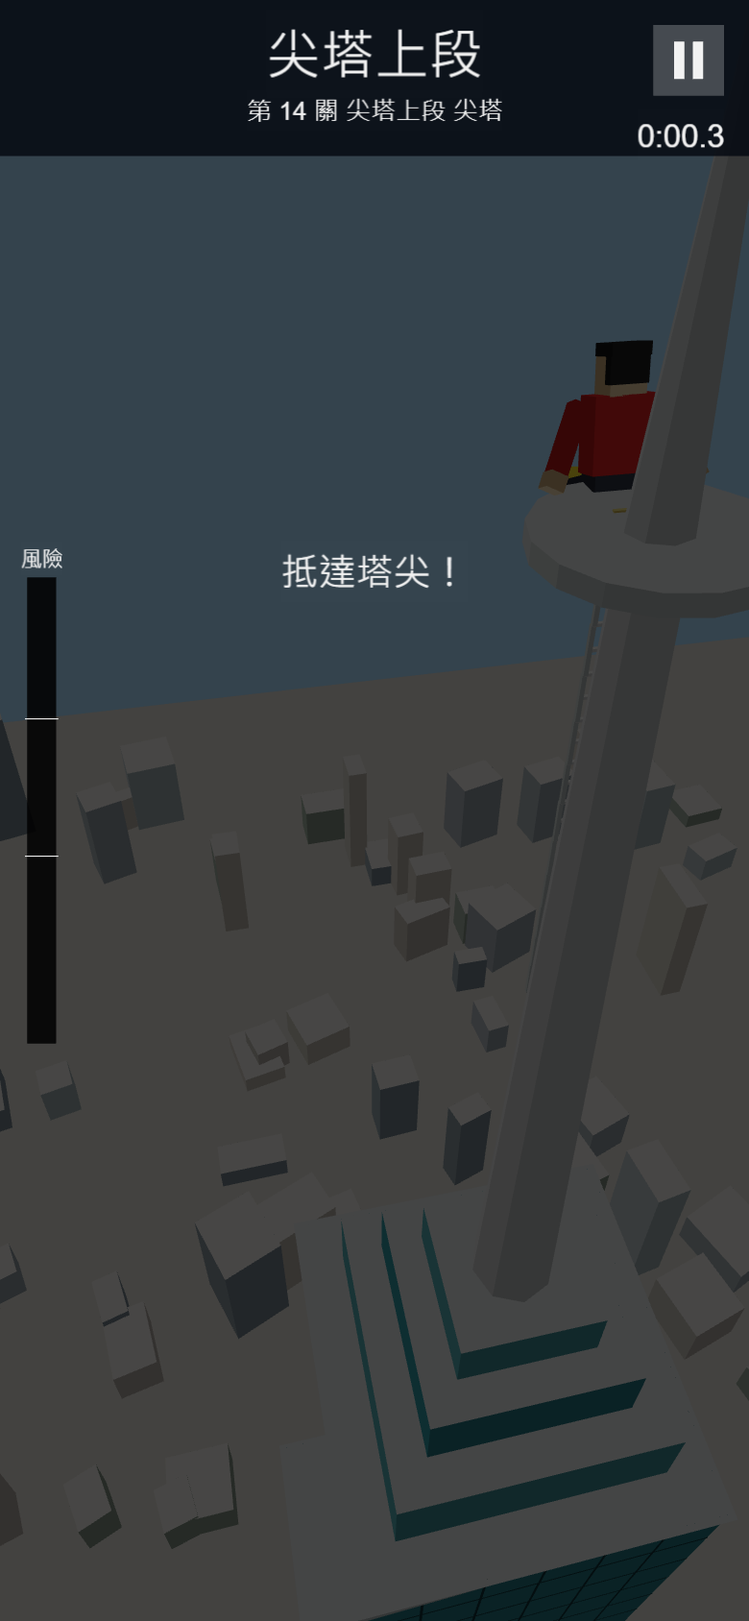
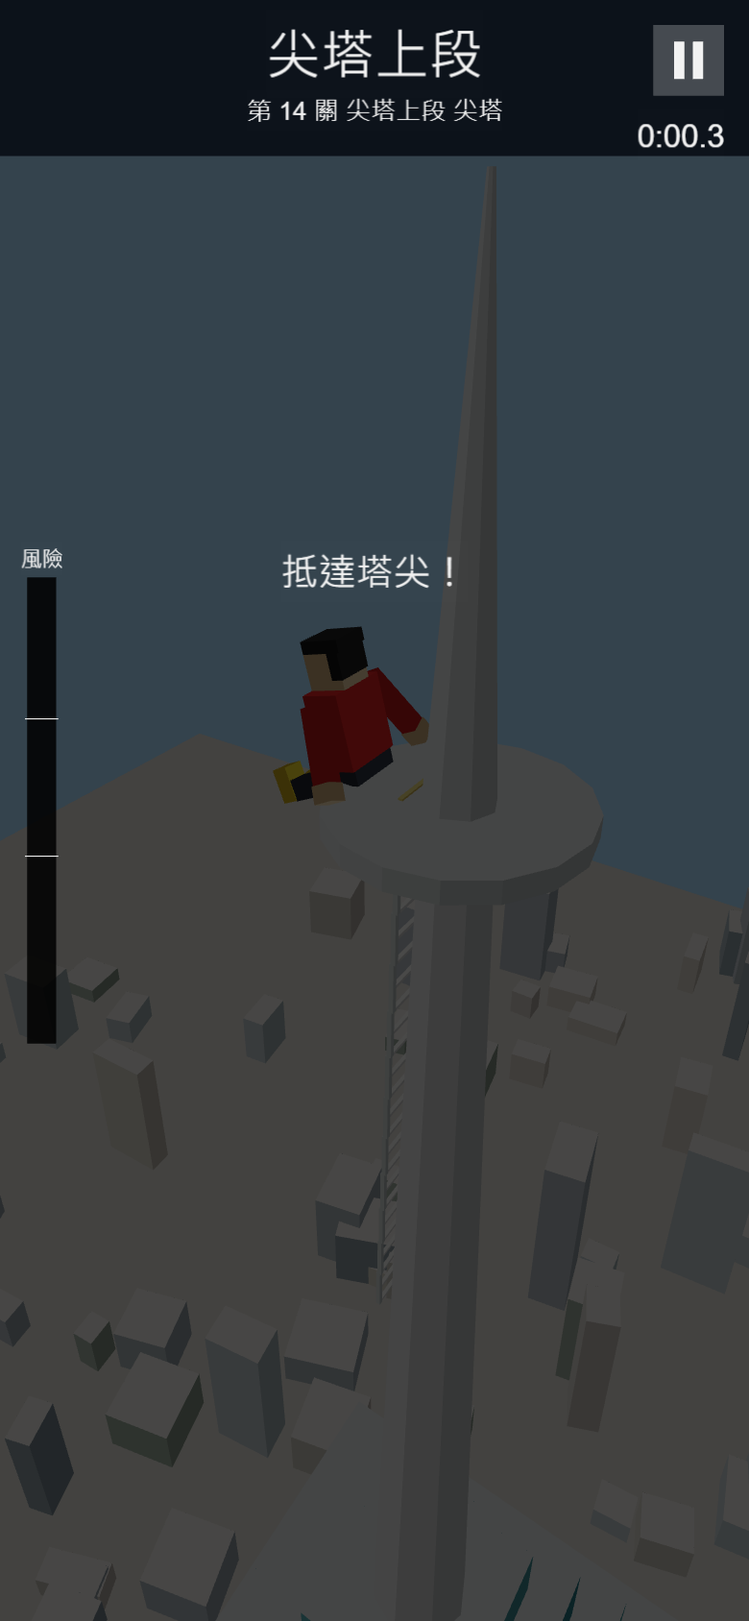
build: rebuild site after ending camera orbit fix

diff --git a/site/assets/main/index.4ecb4.js b/site/assets/main/index.4ecb4.js
@@ -34,7 +34,7 @@ System.register("chunks:///_virtual/SettingsPanel.ts",["./rollupPluginModLoBabel
 
 System.register("chunks:///_virtual/Toast.ts",["cc","./UiKit.ts"],(function(t){var i,o,e,a,n,s,c,h,d,p,r;return{setters:[function(t){i=t.cclegacy,o=t.UITransform,e=t.Tween,a=t.tween,n=t.Graphics,s=t.Color,c=t.UIOpacity},function(t){h=t.roundRect,d=t.hex,p=t.makeNode,r=t.makeLabel}],execute:function(){i._RF.push({},"c007dJKzeZA6KMdTTa1W2Pz","Toast",void 0);t("Toast",function(){function t(t,i){void 0===i&&(i=-470),this.node=void 0,this.bg=void 0,this.label=void 0,this.opacity=void 0,this.node=p("Toast",t,0,0,0,i),this.bg=this.node.addComponent(n),this.label=r(this.node,"",30,s.WHITE,{bold:!0}),this.opacity=this.node.addComponent(c),this.opacity.opacity=0}var i=t.prototype;return i.show=function(t,i){void 0===i&&(i=1.6),this.node.setSiblingIndex(this.node.parent.children.length-1),this.label.string=t,this.label.updateRenderData(!0);var n=Math.max(220,this.label.node.getComponent(o).width+64);this.bg.clear(),h(this.bg,n,72,36,d("#0b1024",230),d("#ffc94a",230),2),e.stopAllByTarget(this.opacity),this.opacity.opacity=255,a(this.opacity).delay(i).to(.3,{opacity:0}).start()},i.hide=function(){e.stopAllByTarget(this.opacity),this.opacity.opacity=0},t}());i._RF.pop()}}}));
 
-System.register("chunks:///_virtual/Tower3D.ts",["./rollupPluginModLoBabelHelpers.js","cc","./ClimbCore.ts","./TowerShape.ts"],(function(t){var s,i,a,r,e,o,n,h,l,d,c,u,f,v,m,w,b,p,y,M,g,Y,P,x,E,F,R,C,I,T,O;return{setters:[function(t){s=t.createForOfIteratorHelperLoose,i=t.createClass,a=t.asyncToGenerator,r=t.regeneratorRuntime},function(t){e=t.cclegacy,o=t.Color,n=t.Vec3,h=t.Node,l=t.Layers,d=t.MeshRenderer,c=t.director,u=t.Camera,f=t.resources,v=t.Material,m=t.utils},function(t){w=t.zoneOf,b=t.isObstacle},function(t){p=t.halfAt,y=t.surfacePoint,M=t.CROWN,g=t.summitY,Y=t.SPIRE_HALF,P=t.SPIRE_TIP,x=t.levelBaseY,E=t.ROW_H,F=t.profileHalf,R=t.ringDelta,C=t.angleDelta,I=t.towerSections,T=t.roofY,O=t.rowY}],execute:function(){e._RF.push({},"99b4ejPWJhEJavssHONEiN2","Tower3D",void 0);var L=z("#9cc8e6"),k=1.5,S=t("ENDING_SEC",10),D=.04,A={glass:z("#3f8f98"),glassDark:z("#2b6f78"),mullion:z("#1f4f57"),ledge:z("#cfd8d6"),disc:z("#b9c6c4"),discInner:z("#7d8f8d"),ruyi:z("#f2f2ee"),crown:z("#5aa0a8"),spire:z("#d8dcdc"),plaza:z("#b8b2a6"),mat:z("#24474a"),safe:z("#6fd0e0"),danger:z("#e0605a"),obstacle:z("#5a5a5a"),obstacleTop:z("#8a8a8a"),slab:z("#173a40"),goal:z("#e8c66a"),body:z("#d62c2c"),skin:z("#f0c090"),hair:z("#2a2a2a"),pants:z("#3a3f4a"),shoe:z("#f2c230")};function z(t){return(new o).fromHEX(t)}var H=new n(.45,.75,.5).normalize();function q(t,s,i,a){var r=Math.hypot(s,i,a)||1,e=(s*H.x+i*H.y+a*H.z)/r,o=.62+.38*Math.max(0,e);return[t.r/255*o,t.g/255*o,t.b/255*o,1]}var N=function(){function t(){this.positions=[],this.colors=[],this.indices=[],this.min=[1/0,1/0,1/0],this.max=[-1/0,-1/0,-1/0]}var s=t.prototype;return s.vert=function(t,s){this.positions.push(t[0],t[1],t[2]),this.colors.push(s[0],s[1],s[2],s[3]);for(var i=0;i<3;i++)t[i]<this.min[i]&&(this.min[i]=t[i]),t[i]>this.max[i]&&(this.max[i]=t[i]);return this.vertexCount-1},s.quad=function(t,s,i,a,r,e){void 0===e&&(e=!1);var o=s[0]-t[0],n=s[1]-t[1],h=s[2]-t[2],l=a[0]-t[0],d=a[1]-t[1],c=a[2]-t[2],u=e?[r.r/255,r.g/255,r.b/255,1]:q(r,n*c-h*d,h*l-o*c,o*d-n*l),f=this.vert(t,u);this.vert(s,u),this.vert(i,u),this.vert(a,u),this.indices.push(f,f+1,f+2,f,f+2,f+3)},s.box=function(t,s,i,a,r,e,o,n,h){void 0===n&&(n=0);var l=a/2,d=r/2,c=e/2,u=Math.cos(n),f=Math.sin(n),v=function(a,r,e){return[t+a*u+e*f,s+r,i-a*f+e*u]},m=[v(-l,-d,-c),v(l,-d,-c),v(l,d,-c),v(-l,d,-c),v(-l,-d,c),v(l,-d,c),v(l,d,c),v(-l,d,c)];this.quad(m[4],m[5],m[6],m[7],o),this.quad(m[1],m[0],m[3],m[2],o),this.quad(m[5],m[1],m[2],m[6],o),this.quad(m[0],m[4],m[7],m[3],o),this.quad(m[7],m[6],m[2],m[3],null!=h?h:o),this.quad(m[0],m[1],m[5],m[4],o)},s.prism=function(t,s,i,a,r,e,o,n){void 0===o&&(o=0),void 0===n&&(n=0);for(var h=0;h<t;h++){var l=h/t*Math.PI*2,d=(h+1)/t*Math.PI*2;this.quad([o+Math.sin(l)*a,s,n+Math.cos(l)*a],[o+Math.sin(d)*a,s,n+Math.cos(d)*a],[o+Math.sin(d)*r,i,n+Math.cos(d)*r],[o+Math.sin(l)*r,i,n+Math.cos(l)*r],e)}for(var c=q(e,0,1,0),u=this.vert([o,i,n],c),f=0;f<=t;f++){var v=f/t*Math.PI*2;this.vert([o+Math.sin(v)*r,i,n+Math.cos(v)*r],c)}for(var m=0;m<t;m++)this.indices.push(u,u+1+m,u+2+m)},s.build=function(){var t,s,i={positions:this.positions,colors:this.colors,indices:this.indices,minPos:new n(this.min[0],this.min[1],this.min[2]),maxPos:new n(this.max[0],this.max[1],this.max[2])},a=m,r=null!=(t=null==(s=a.MeshUtils)?void 0:s.createMesh)?t:a.createMesh;if(!r)throw new Error("createMesh is not available (is the 3D module enabled?)");return r(i)},i(t,[{key:"vertexCount",get:function(){return this.positions.length/3}}]),t}();function _(t,s,i,a,r,e,o,n,h,l,d){void 0===d&&(d=!1);var c=p(s,o+1e-4),u=p(s,n-1e-4),f=y(r,c,i,a,h),v=y(e,c,i,a,h),m=y(e,u,i,a,h),w=y(r,u,i,a,h);t.quad([f.x,o,f.z],[v.x,o,v.z],[m.x,n,m.z],[w.x,n,w.z],l,d)}t("Tower3D",function(){function t(t,s){this.root=void 0,this.camera=void 0,this.userYaw=0,this.rowsPerFloor=void 0,this.ladderRows=void 0,this.sections=void 0,this.material=null,this.gridNode=null,this.gridMesh=null,this.player=void 0,this.body=void 0,this.limbs=[],this.followYaw=0,this.camYaw=0,this.playerYaw=0,this.camY=0,this.camHalf=8,this.idleOrbitSec=0,this.baseY=0,this.standY=0,this.standOut=1,this.feetY=0,this.lastWalk=0,this.tmp=new n,this.tmp2=new n,this.rowsPerFloor=t,this.ladderRows=s,this.sections=I(t);var i=c.getScene();this.root=new h("Tower3D"),this.root.layer=l.Enum.DEFAULT,i.addChild(this.root);var a=new h("Camera3D");a.layer=l.Enum.DEFAULT,i.addChild(a);var r=a.addComponent(u);r.projection=u.ProjectionType.PERSPECTIVE,r.fovAxis=u.FOVAxis.HORIZONTAL,r.fov=42,r.near=.3,r.far=1500,r.priority=0,r.clearFlags=u.ClearFlag.SOLID_COLOR,r.clearColor=L,r.visibility=l.Enum.DEFAULT,this.camera=r}var e=t.prototype;return e.init=function(){var t=a(r().mark((function t(){return r().wrap((function(t){for(;;)switch(t.prev=t.next){case 0:return t.next=2,new Promise((function(t,s){f.load("materials/vertex-color",v,(function(i,a){if(!i&&a)t(a);else try{var r=new v;r.initialize({effectName:"builtin-unlit",defines:{USE_VERTEX_COLOR:!0}}),t(r)}catch(t){s(null!=i?i:t)}}))}));case 2:this.material=t.sent,this.addMesh("Scenery",this.buildScenery()),this.buildPlayer();case 5:case"end":return t.stop()}}),t,this)})));return function(){return t.apply(this,arguments)}}(),e.destroy=function(){var t;null==(t=this.gridMesh)||t.destroy(),this.root.destroy(),this.camera.node.destroy()},e.addMesh=function(t,s,i){void 0===i&&(i=this.root);var a=new h(t);a.layer=l.Enum.DEFAULT,i.addChild(a);var r=s.build(),e=a.addComponent(d);return e.mesh=r,e.setSharedMaterial(this.material,0),e.shadowCastingMode=d.ShadowCastingMode.OFF,{node:a,mesh:r}},e.buildScenery=function(){var t=new N,s=this.sections,i=this.rowsPerFloor;t.quad([-400,0,400],[400,0,400],[400,0,-400],[-400,0,-400],A.plaza,!0);var a=s[0].half0+3;t.quad([-a,.02,a],[a,.02,a],[a,.02,-a],[-a,.02,-a],A.mat,!0);for(var r=0;r<s.length;r++){for(var e=s[r],o=0;o<4;o++)_(t,s,1,4,o,o+1,e.y0,e.y1,0,r%2?A.glass:A.glassDark);for(var n=e.floorFrom+1;n<=e.floorTo;n++)for(var h=O((n-1)*i),l=0;l<4;l++)_(t,s,1,4,l,l+1,h-.06,h+.06,.015,A.mullion);for(var d=0;d<4;d++)for(var c=1;c<6;c++){var u=d+c/6;_(t,s,1,4,u-.004,u+.004,e.y0,e.y1,.015,A.mullion)}var f=s[r+1],v=f?f.half0:0;this.ring(t,e.y1,e.half1+.15,v,A.ledge);for(var m=0;m<4;m++)_(t,s,1,4,m,m+1,e.y1-.35,e.y1,.15,A.ledge);if("segment"===e.kind)for(var w=e.y0+.35*(e.y1-e.y0),b=p(s,w),x=0;x<4;x++){var E=y(x,b,1,4,.25);t.box(E.x,w,E.z,.9,.35,.9,A.ruyi,Math.PI/4),t.box(E.x,w-.55,E.z,.3,.8,.3,A.ruyi,Math.PI/4)}}for(var F=s[0].y1-2.4,R=p(s,F),C=0;C<4;C++){var I=C*Math.PI/2;this.disc(t,R+.08,F,I,1.9,A.disc),this.disc(t,R+.14,F,I,1.2,A.discInner)}var L=T(i),k=[A.crown,A.glass,A.crown];M.forEach((function(s,i){var a=s[0],r=s[1];t.box(0,L+a/2,0,2*r,a,2*r,k[i%k.length],0,A.ledge),L+=a}));var S=g(i,this.ladderRows);t.prism(8,L,S,Y[0],Y[1],A.spire),t.prism(16,S-.3,S,1.6,1.6,A.ledge),t.prism(8,S,S+P,Y[1],.04,A.spire);for(var D=101,H=function(){return(D=16807*D%2147483647)/2147483647},q=[z("#c9c3b8"),z("#a9b3b8"),z("#d8cfc0"),z("#8f9ca3"),z("#b7c4c9"),z("#9aa89a")],U=0;U<260;U++){var W=H()*Math.PI*2,V=60+300*Math.pow(H(),.7),j=V<100,B=6+14*H(),G=6+14*H(),J=j?4+18*H():6+H()*H()*60;t.box(Math.sin(W)*V,J/2,Math.cos(W)*V,B,J,G,q[U%q.length],.4*H(),z("#e4e0d8"))}return t},e.ring=function(t,s,i,a,r){for(var e=function(t){return[[t,s,t],[t,s,-t],[-t,s,-t],[-t,s,t]]},o=e(i),n=e(a),h=0;h<4;h++){var l=(h+1)%4;t.quad(o[h],o[l],n[l],n[h],r)}},e.disc=function(t,s,i,a,r,e){for(var o=Math.sin(a),n=Math.cos(a),h=Math.cos(a),l=-Math.sin(a),d=0;d<16;d++){var c=d/16*Math.PI*2,u=(d+1)/16*Math.PI*2,f=function(t){return[o*s+h*Math.cos(t)*r,i+Math.sin(t)*r,n*s+l*Math.cos(t)*r]},v=[o*s,i,n*s];t.quad(v,f(c),f(u),v,e)}},e.setLevel=function(t){var i,a,r=this;null==(i=this.gridNode)||i.destroy(),null==(a=this.gridMesh)||a.destroy();var e=t.wall,o=t.level,n=this.sections;this.baseY=x(o,this.rowsPerFloor,this.ladderRows);var h=function(t){return r.baseY+t*E};1===o.floorFrom?(this.standY=0,this.standOut=1.2):(this.standY=this.baseY,this.standOut=Math.max(.5,.55*(this.half(this.baseY-.05)-this.half(this.baseY+.05))));var l=new N;if(1===e.cols){this.buildLadder(l,e.rows);var d=this.addMesh("Grid",l),c=d.node,u=d.mesh;return this.gridNode=c,void(this.gridMesh=u)}for(var f=0;f<e.ring;f++)for(var v=0,m=1;m<=e.rows;m++){var M=w(e,f,m-1);if(m===e.rows||b(e,f,m)||b(e,f,m-1)||w(e,f,m)!==M){if(!b(e,f,m-1)){var g="safe"===M?A.safe:A.danger;_(l,n,e.cols,e.faces,f+.08,f+1-.08,h(v),h(m),D,g,!0)}v=m}}for(var Y=this.rowsPerFloor/2;Y<e.rows;Y+=this.rowsPerFloor){var P=h(Y);_(l,n,e.cols,e.faces,0,e.ring,P-.025,P+.025,.05,A.mullion,!0)}for(var F=this.rowsPerFloor;F<=e.rows;F+=this.rowsPerFloor){var R=h(F),C=F===e.rows;_(l,n,e.cols,e.faces,0,e.ring,R-(C?.1:.05),R+(C?.1:.05),.05,C?A.goal:A.slab,!0)}for(var I,T=s(e.obstacles);!(I=T()).done;){var O=I.value,L=O%e.ring,k=h(Math.floor(O/e.ring))+E/2,S=y(L+.5,p(n,k),e.cols,e.faces,.2),z=2*p(n,k)/e.cols;l.box(S.x,k,S.z,.92*z,1.6*E,.45,A.obstacle,S.yaw,A.obstacleTop)}var H=this.addMesh("Grid",l),q=H.node,U=H.mesh;this.gridNode=q,this.gridMesh=U},e.buildLadder=function(t,s){for(var i=this.baseY,a=0;a<s;a+=4)for(var r=i+(a+2)*E,e=this.half(r)+.12,o=0,n=[-.34,.34];o<n.length;o++){var h=n[o];t.box(h,r,e,.07,4*E,.07,A.ledge)}for(var l=0;l<=s;l+=2){var d=i+l*E;t.box(0,d,this.half(d)+.12,.7,.05,.06,l===s?A.goal:A.ruyi)}},e.half=function(t){return F(this.sections,this.rowsPerFloor,this.ladderRows,t)},e.buildPlayer=function(){var t=this;this.player=new h("Climber"),this.player.layer=l.Enum.DEFAULT,this.root.addChild(this.player),this.player.setScale(k,k,k),this.body=new h("Body"),this.body.layer=l.Enum.DEFAULT,this.player.addChild(this.body);var s=new N;s.box(0,.95,0,.56,.62,.32,A.body),s.box(0,.58,0,.5,.14,.3,A.pants),s.box(0,1.42,0,.32,.34,.32,A.skin),s.box(0,1.6,.02,.34,.1,.34,A.hair),s.box(0,1.47,.12,.34,.26,.1,A.hair),this.addMesh("Torso",s,this.body);var i=function(s,i,a,r,e,o,n,d,c){var u=new h(s);u.layer=l.Enum.DEFAULT,t.body.addChild(u),u.setPosition(i,a,0);var f=new N,v=c?1:-1;f.box(0,v*r/2,0,e,r,e,o),f.box(0,v*(r+.06),c?0:-.06,1.1*e,.14,c?1.1*e:1.6*e,n),t.addMesh("Mesh",f,u),t.limbs.push({node:u,sign:d,arm:c})};i("ArmL",-.36,1.2,.6,.15,A.body,A.skin,1,!0),i("ArmR",.36,1.2,.6,.15,A.body,A.skin,-1,!0),i("LegL",-.15,.55,.55,.18,A.pants,A.shoe,-1,!1),i("LegR",.15,.55,.55,.18,A.pants,A.shoe,1,!1)},e.climberPos=function(t,s){var i=t.wall,a=t.stepT<0?1:t.stepT*t.stepT*(3-2*t.stepT),r=R(t.fromCol,t.col,i.ring,i.faces),e=t.fromCol+r*a+.5,o=t.fromRow+(t.row-t.fromRow)*a,n=0;t.level.startPlatform&&null===s&&(0===t.row&&0===t.fromRow?n=1:t.stepping&&0===t.fromRow&&1===t.row?n=1-a:t.stepping&&1===t.fromRow&&0===t.row&&(n=a));var h=this.baseY+o*E;return{s:e,y:null!=s?s:h+(this.standY-h)*n,out:.55+(this.standOut-.55)*n,stand:n}},e.fallStartY=function(t){return this.climberPos(t,null).y},e.floorY=function(){return this.standY},e.rowAtFeet=function(t){return Math.floor((t-this.baseY)/E)},e.update=function(t,i,a){var r=i.wall,e=this.climberPos(i,a.fallY),o=e.s,n=e.y;this.feetY=n;var h=this.half(n+1.2),l=e.out+1.2*a.tumble,d=y(o,h,r.cols,r.faces,l);this.player.setPosition(d.x,n,d.z),this.playerYaw=d.yaw;var c=i.stepT>=0?Math.sin(i.stepT*Math.PI):0,u=e.stand>.5,f=u&&i.stepping&&i.fromRow===i.row;f&&(this.lastWalk=Math.sign(R(i.fromCol,i.col,r.ring,r.faces)));var v=d.yaw;if(u&&(v+=f?-this.lastWalk*Math.PI/2:Math.PI),this.player.setRotationFromEuler(0,180*v/Math.PI,0),u){this.body.setRotationFromEuler(0,0,0);for(var m,w=s(this.limbs);!(m=w()).done;){var b=m.value,p=f?b.sign*c*35:0;b.arm?b.node.setRotationFromEuler(180-p,0,8*-b.sign):b.node.setRotationFromEuler(p,0,0)}}else{var M=a.grip?12:4;this.body.setRotationFromEuler(-M+150*a.tumble,0,40*a.tumble);for(var g,Y=s(this.limbs);!(g=Y()).done;){var P=g.value,x=P.sign*c*30;P.arm?P.node.setRotationFromEuler(x+(a.grip?-6:6),0,-P.sign*(a.grip?10:22)):P.node.setRotationFromEuler(x-10,0,6*P.sign)}}this.followYaw+=C(this.followYaw,d.yaw)*(1-Math.exp(5*-t)),0!==a.orbitInput?(this.userYaw+=a.orbitInput,this.idleOrbitSec=0):(this.idleOrbitSec+=t,this.idleOrbitSec>1.5&&(this.userYaw=C(0,this.userYaw)*Math.exp(3*-t))),this.camYaw=this.followYaw+this.userYaw;var E=n+5+a.lift;this.camY+=(E-this.camY)*(1-Math.exp(6*-t)),this.camHalf+=(h-this.camHalf)*(1-Math.exp(3*-t));var F=2.6*this.camHalf+13,I=this.camY+1.2+a.shake;this.camera.node.setPosition(Math.sin(this.camYaw)*F,I,Math.cos(this.camYaw)*F),this.camera.node.lookAt(this.tmp.set(0,this.camY,0))},e.snap=function(t){var s=this.climberPos(t,null),i=s.s,a=s.y,r=y(i,this.half(a+1.2),t.wall.cols,t.wall.faces);this.followYaw=r.yaw,this.userYaw=0,this.camY=a+5,this.camHalf=this.half(a+1.2)},e.updateEnding=function(t){var i=g(this.rowsPerFloor,this.ladderRows),a=1.15;this.player.setPosition(0,i-.55*k+.05,a),this.player.setRotationFromEuler(0,180,0),this.feetY=i,this.playerYaw=0;var r=2*Math.sin(2*t);this.body.setRotationFromEuler(-14+r,0,0);for(var e,o=s(this.limbs);!(e=o()).done;){var n=e.value;n.arm?n.node.setRotationFromEuler(165,0,25*-n.sign):n.node.setRotationFromEuler(70+8*Math.sin(1.5*t+n.sign),0,6*n.sign)}var h,l,d=this.tmp2.set(0,i,a),c=2.3,u=i+4,f=-.5,v=-.3,m=i-30,w=26.15,b=(h=(t-3.5)/(S-3.5),(l=Math.min(1,Math.max(0,h)))*l*(3-2*l)),p=Math.atan2(c,f),y=Math.hypot(c,f),M=p+b*Math.PI*1.2,Y=y+(32-y)*b;this.camera.node.setPosition(Math.sin(M)*Y,u+9*b,Math.cos(M)*Y),this.camera.node.lookAt(this.tmp.set(v+(d.x-v)*b,m+(d.y+1.2-m)*b,w+(d.z-w)*b)),this.camYaw=M},e.headWorld=function(t){return this.player.getWorldPosition(t),t.y+=3,t},t.keyOrbit=function(t,s){return s*(100*Math.PI/180)*t},t.dragOrbit=function(t){return.008*-t},i(t,[{key:"totalHeight",get:function(){return g(this.rowsPerFloor,this.ladderRows)+P}},{key:"climberY",get:function(){return this.feetY}},{key:"levelBottomY",get:function(){return this.baseY}},{key:"climberInView",get:function(){return Math.abs(C(this.camYaw,this.playerYaw))<1.45}}]),t}());e._RF.pop()}}}));
+System.register("chunks:///_virtual/Tower3D.ts",["./rollupPluginModLoBabelHelpers.js","cc","./ClimbCore.ts","./TowerShape.ts"],(function(t){var s,i,r,a,e,o,n,h,l,d,c,u,f,v,m,w,b,p,y,g,M,Y,P,x,E,F,R,C,I,T,O;return{setters:[function(t){s=t.createForOfIteratorHelperLoose,i=t.createClass,r=t.asyncToGenerator,a=t.regeneratorRuntime},function(t){e=t.cclegacy,o=t.Color,n=t.Vec3,h=t.Node,l=t.Layers,d=t.MeshRenderer,c=t.director,u=t.Camera,f=t.resources,v=t.Material,m=t.utils},function(t){w=t.zoneOf,b=t.isObstacle},function(t){p=t.halfAt,y=t.surfacePoint,g=t.CROWN,M=t.summitY,Y=t.SPIRE_HALF,P=t.SPIRE_TIP,x=t.levelBaseY,E=t.ROW_H,F=t.profileHalf,R=t.ringDelta,C=t.angleDelta,I=t.towerSections,T=t.roofY,O=t.rowY}],execute:function(){e._RF.push({},"99b4ejPWJhEJavssHONEiN2","Tower3D",void 0);var L=z("#9cc8e6"),k=1.5,S=t("ENDING_SEC",10),D=.04,A={glass:z("#3f8f98"),glassDark:z("#2b6f78"),mullion:z("#1f4f57"),ledge:z("#cfd8d6"),disc:z("#b9c6c4"),discInner:z("#7d8f8d"),ruyi:z("#f2f2ee"),crown:z("#5aa0a8"),spire:z("#d8dcdc"),plaza:z("#b8b2a6"),mat:z("#24474a"),safe:z("#6fd0e0"),danger:z("#e0605a"),obstacle:z("#5a5a5a"),obstacleTop:z("#8a8a8a"),slab:z("#173a40"),goal:z("#e8c66a"),body:z("#d62c2c"),skin:z("#f0c090"),hair:z("#2a2a2a"),pants:z("#3a3f4a"),shoe:z("#f2c230")};function z(t){return(new o).fromHEX(t)}var H=new n(.45,.75,.5).normalize();function q(t,s,i,r){var a=Math.hypot(s,i,r)||1,e=(s*H.x+i*H.y+r*H.z)/a,o=.62+.38*Math.max(0,e);return[t.r/255*o,t.g/255*o,t.b/255*o,1]}var N=function(){function t(){this.positions=[],this.colors=[],this.indices=[],this.min=[1/0,1/0,1/0],this.max=[-1/0,-1/0,-1/0]}var s=t.prototype;return s.vert=function(t,s){this.positions.push(t[0],t[1],t[2]),this.colors.push(s[0],s[1],s[2],s[3]);for(var i=0;i<3;i++)t[i]<this.min[i]&&(this.min[i]=t[i]),t[i]>this.max[i]&&(this.max[i]=t[i]);return this.vertexCount-1},s.quad=function(t,s,i,r,a,e){void 0===e&&(e=!1);var o=s[0]-t[0],n=s[1]-t[1],h=s[2]-t[2],l=r[0]-t[0],d=r[1]-t[1],c=r[2]-t[2],u=e?[a.r/255,a.g/255,a.b/255,1]:q(a,n*c-h*d,h*l-o*c,o*d-n*l),f=this.vert(t,u);this.vert(s,u),this.vert(i,u),this.vert(r,u),this.indices.push(f,f+1,f+2,f,f+2,f+3)},s.box=function(t,s,i,r,a,e,o,n,h){void 0===n&&(n=0);var l=r/2,d=a/2,c=e/2,u=Math.cos(n),f=Math.sin(n),v=function(r,a,e){return[t+r*u+e*f,s+a,i-r*f+e*u]},m=[v(-l,-d,-c),v(l,-d,-c),v(l,d,-c),v(-l,d,-c),v(-l,-d,c),v(l,-d,c),v(l,d,c),v(-l,d,c)];this.quad(m[4],m[5],m[6],m[7],o),this.quad(m[1],m[0],m[3],m[2],o),this.quad(m[5],m[1],m[2],m[6],o),this.quad(m[0],m[4],m[7],m[3],o),this.quad(m[7],m[6],m[2],m[3],null!=h?h:o),this.quad(m[0],m[1],m[5],m[4],o)},s.prism=function(t,s,i,r,a,e,o,n){void 0===o&&(o=0),void 0===n&&(n=0);for(var h=0;h<t;h++){var l=h/t*Math.PI*2,d=(h+1)/t*Math.PI*2;this.quad([o+Math.sin(l)*r,s,n+Math.cos(l)*r],[o+Math.sin(d)*r,s,n+Math.cos(d)*r],[o+Math.sin(d)*a,i,n+Math.cos(d)*a],[o+Math.sin(l)*a,i,n+Math.cos(l)*a],e)}for(var c=q(e,0,1,0),u=this.vert([o,i,n],c),f=0;f<=t;f++){var v=f/t*Math.PI*2;this.vert([o+Math.sin(v)*a,i,n+Math.cos(v)*a],c)}for(var m=0;m<t;m++)this.indices.push(u,u+1+m,u+2+m)},s.build=function(){var t,s,i={positions:this.positions,colors:this.colors,indices:this.indices,minPos:new n(this.min[0],this.min[1],this.min[2]),maxPos:new n(this.max[0],this.max[1],this.max[2])},r=m,a=null!=(t=null==(s=r.MeshUtils)?void 0:s.createMesh)?t:r.createMesh;if(!a)throw new Error("createMesh is not available (is the 3D module enabled?)");return a(i)},i(t,[{key:"vertexCount",get:function(){return this.positions.length/3}}]),t}();function _(t,s,i,r,a,e,o,n,h,l,d){void 0===d&&(d=!1);var c=p(s,o+1e-4),u=p(s,n-1e-4),f=y(a,c,i,r,h),v=y(e,c,i,r,h),m=y(e,u,i,r,h),w=y(a,u,i,r,h);t.quad([f.x,o,f.z],[v.x,o,v.z],[m.x,n,m.z],[w.x,n,w.z],l,d)}t("Tower3D",function(){function t(t,s){this.root=void 0,this.camera=void 0,this.userYaw=0,this.rowsPerFloor=void 0,this.ladderRows=void 0,this.sections=void 0,this.material=null,this.gridNode=null,this.gridMesh=null,this.player=void 0,this.body=void 0,this.limbs=[],this.followYaw=0,this.camYaw=0,this.playerYaw=0,this.camY=0,this.camHalf=8,this.idleOrbitSec=0,this.baseY=0,this.standY=0,this.standOut=1,this.feetY=0,this.lastWalk=0,this.tmp=new n,this.tmp2=new n,this.rowsPerFloor=t,this.ladderRows=s,this.sections=I(t);var i=c.getScene();this.root=new h("Tower3D"),this.root.layer=l.Enum.DEFAULT,i.addChild(this.root);var r=new h("Camera3D");r.layer=l.Enum.DEFAULT,i.addChild(r);var a=r.addComponent(u);a.projection=u.ProjectionType.PERSPECTIVE,a.fovAxis=u.FOVAxis.HORIZONTAL,a.fov=42,a.near=.3,a.far=1500,a.priority=0,a.clearFlags=u.ClearFlag.SOLID_COLOR,a.clearColor=L,a.visibility=l.Enum.DEFAULT,this.camera=a}var e=t.prototype;return e.init=function(){var t=r(a().mark((function t(){return a().wrap((function(t){for(;;)switch(t.prev=t.next){case 0:return t.next=2,new Promise((function(t,s){f.load("materials/vertex-color",v,(function(i,r){if(!i&&r)t(r);else try{var a=new v;a.initialize({effectName:"builtin-unlit",defines:{USE_VERTEX_COLOR:!0}}),t(a)}catch(t){s(null!=i?i:t)}}))}));case 2:this.material=t.sent,this.addMesh("Scenery",this.buildScenery()),this.buildPlayer();case 5:case"end":return t.stop()}}),t,this)})));return function(){return t.apply(this,arguments)}}(),e.destroy=function(){var t;null==(t=this.gridMesh)||t.destroy(),this.root.destroy(),this.camera.node.destroy()},e.addMesh=function(t,s,i){void 0===i&&(i=this.root);var r=new h(t);r.layer=l.Enum.DEFAULT,i.addChild(r);var a=s.build(),e=r.addComponent(d);return e.mesh=a,e.setSharedMaterial(this.material,0),e.shadowCastingMode=d.ShadowCastingMode.OFF,{node:r,mesh:a}},e.buildScenery=function(){var t=new N,s=this.sections,i=this.rowsPerFloor;t.quad([-400,0,400],[400,0,400],[400,0,-400],[-400,0,-400],A.plaza,!0);var r=s[0].half0+3;t.quad([-r,.02,r],[r,.02,r],[r,.02,-r],[-r,.02,-r],A.mat,!0);for(var a=0;a<s.length;a++){for(var e=s[a],o=0;o<4;o++)_(t,s,1,4,o,o+1,e.y0,e.y1,0,a%2?A.glass:A.glassDark);for(var n=e.floorFrom+1;n<=e.floorTo;n++)for(var h=O((n-1)*i),l=0;l<4;l++)_(t,s,1,4,l,l+1,h-.06,h+.06,.015,A.mullion);for(var d=0;d<4;d++)for(var c=1;c<6;c++){var u=d+c/6;_(t,s,1,4,u-.004,u+.004,e.y0,e.y1,.015,A.mullion)}var f=s[a+1],v=f?f.half0:0;this.ring(t,e.y1,e.half1+.15,v,A.ledge);for(var m=0;m<4;m++)_(t,s,1,4,m,m+1,e.y1-.35,e.y1,.15,A.ledge);if("segment"===e.kind)for(var w=e.y0+.35*(e.y1-e.y0),b=p(s,w),x=0;x<4;x++){var E=y(x,b,1,4,.25);t.box(E.x,w,E.z,.9,.35,.9,A.ruyi,Math.PI/4),t.box(E.x,w-.55,E.z,.3,.8,.3,A.ruyi,Math.PI/4)}}for(var F=s[0].y1-2.4,R=p(s,F),C=0;C<4;C++){var I=C*Math.PI/2;this.disc(t,R+.08,F,I,1.9,A.disc),this.disc(t,R+.14,F,I,1.2,A.discInner)}var L=T(i),k=[A.crown,A.glass,A.crown];g.forEach((function(s,i){var r=s[0],a=s[1];t.box(0,L+r/2,0,2*a,r,2*a,k[i%k.length],0,A.ledge),L+=r}));var S=M(i,this.ladderRows);t.prism(8,L,S,Y[0],Y[1],A.spire),t.prism(16,S-.3,S,1.6,1.6,A.ledge),t.prism(8,S,S+P,Y[1],.04,A.spire);for(var D=101,H=function(){return(D=16807*D%2147483647)/2147483647},q=[z("#c9c3b8"),z("#a9b3b8"),z("#d8cfc0"),z("#8f9ca3"),z("#b7c4c9"),z("#9aa89a")],U=0;U<260;U++){var W=H()*Math.PI*2,V=60+300*Math.pow(H(),.7),j=V<100,B=6+14*H(),G=6+14*H(),J=j?4+18*H():6+H()*H()*60;t.box(Math.sin(W)*V,J/2,Math.cos(W)*V,B,J,G,q[U%q.length],.4*H(),z("#e4e0d8"))}return t},e.ring=function(t,s,i,r,a){for(var e=function(t){return[[t,s,t],[t,s,-t],[-t,s,-t],[-t,s,t]]},o=e(i),n=e(r),h=0;h<4;h++){var l=(h+1)%4;t.quad(o[h],o[l],n[l],n[h],a)}},e.disc=function(t,s,i,r,a,e){for(var o=Math.sin(r),n=Math.cos(r),h=Math.cos(r),l=-Math.sin(r),d=0;d<16;d++){var c=d/16*Math.PI*2,u=(d+1)/16*Math.PI*2,f=function(t){return[o*s+h*Math.cos(t)*a,i+Math.sin(t)*a,n*s+l*Math.cos(t)*a]},v=[o*s,i,n*s];t.quad(v,f(c),f(u),v,e)}},e.setLevel=function(t){var i,r,a=this;null==(i=this.gridNode)||i.destroy(),null==(r=this.gridMesh)||r.destroy();var e=t.wall,o=t.level,n=this.sections;this.baseY=x(o,this.rowsPerFloor,this.ladderRows);var h=function(t){return a.baseY+t*E};1===o.floorFrom?(this.standY=0,this.standOut=1.2):(this.standY=this.baseY,this.standOut=Math.max(.5,.55*(this.half(this.baseY-.05)-this.half(this.baseY+.05))));var l=new N;if(1===e.cols){this.buildLadder(l,e.rows);var d=this.addMesh("Grid",l),c=d.node,u=d.mesh;return this.gridNode=c,void(this.gridMesh=u)}for(var f=0;f<e.ring;f++)for(var v=0,m=1;m<=e.rows;m++){var g=w(e,f,m-1);if(m===e.rows||b(e,f,m)||b(e,f,m-1)||w(e,f,m)!==g){if(!b(e,f,m-1)){var M="safe"===g?A.safe:A.danger;_(l,n,e.cols,e.faces,f+.08,f+1-.08,h(v),h(m),D,M,!0)}v=m}}for(var Y=this.rowsPerFloor/2;Y<e.rows;Y+=this.rowsPerFloor){var P=h(Y);_(l,n,e.cols,e.faces,0,e.ring,P-.025,P+.025,.05,A.mullion,!0)}for(var F=this.rowsPerFloor;F<=e.rows;F+=this.rowsPerFloor){var R=h(F),C=F===e.rows;_(l,n,e.cols,e.faces,0,e.ring,R-(C?.1:.05),R+(C?.1:.05),.05,C?A.goal:A.slab,!0)}for(var I,T=s(e.obstacles);!(I=T()).done;){var O=I.value,L=O%e.ring,k=h(Math.floor(O/e.ring))+E/2,S=y(L+.5,p(n,k),e.cols,e.faces,.2),z=2*p(n,k)/e.cols;l.box(S.x,k,S.z,.92*z,1.6*E,.45,A.obstacle,S.yaw,A.obstacleTop)}var H=this.addMesh("Grid",l),q=H.node,U=H.mesh;this.gridNode=q,this.gridMesh=U},e.buildLadder=function(t,s){for(var i=this.baseY,r=0;r<s;r+=4)for(var a=i+(r+2)*E,e=this.half(a)+.12,o=0,n=[-.34,.34];o<n.length;o++){var h=n[o];t.box(h,a,e,.07,4*E,.07,A.ledge)}for(var l=0;l<=s;l+=2){var d=i+l*E;t.box(0,d,this.half(d)+.12,.7,.05,.06,l===s?A.goal:A.ruyi)}},e.half=function(t){return F(this.sections,this.rowsPerFloor,this.ladderRows,t)},e.buildPlayer=function(){var t=this;this.player=new h("Climber"),this.player.layer=l.Enum.DEFAULT,this.root.addChild(this.player),this.player.setScale(k,k,k),this.body=new h("Body"),this.body.layer=l.Enum.DEFAULT,this.player.addChild(this.body);var s=new N;s.box(0,.95,0,.56,.62,.32,A.body),s.box(0,.58,0,.5,.14,.3,A.pants),s.box(0,1.42,0,.32,.34,.32,A.skin),s.box(0,1.6,.02,.34,.1,.34,A.hair),s.box(0,1.47,.12,.34,.26,.1,A.hair),this.addMesh("Torso",s,this.body);var i=function(s,i,r,a,e,o,n,d,c){var u=new h(s);u.layer=l.Enum.DEFAULT,t.body.addChild(u),u.setPosition(i,r,0);var f=new N,v=c?1:-1;f.box(0,v*a/2,0,e,a,e,o),f.box(0,v*(a+.06),c?0:-.06,1.1*e,.14,c?1.1*e:1.6*e,n),t.addMesh("Mesh",f,u),t.limbs.push({node:u,sign:d,arm:c})};i("ArmL",-.36,1.2,.6,.15,A.body,A.skin,1,!0),i("ArmR",.36,1.2,.6,.15,A.body,A.skin,-1,!0),i("LegL",-.15,.55,.55,.18,A.pants,A.shoe,-1,!1),i("LegR",.15,.55,.55,.18,A.pants,A.shoe,1,!1)},e.climberPos=function(t,s){var i=t.wall,r=t.stepT<0?1:t.stepT*t.stepT*(3-2*t.stepT),a=R(t.fromCol,t.col,i.ring,i.faces),e=t.fromCol+a*r+.5,o=t.fromRow+(t.row-t.fromRow)*r,n=0;t.level.startPlatform&&null===s&&(0===t.row&&0===t.fromRow?n=1:t.stepping&&0===t.fromRow&&1===t.row?n=1-r:t.stepping&&1===t.fromRow&&0===t.row&&(n=r));var h=this.baseY+o*E;return{s:e,y:null!=s?s:h+(this.standY-h)*n,out:.55+(this.standOut-.55)*n,stand:n}},e.fallStartY=function(t){return this.climberPos(t,null).y},e.floorY=function(){return this.standY},e.rowAtFeet=function(t){return Math.floor((t-this.baseY)/E)},e.update=function(t,i,r){var a=i.wall,e=this.climberPos(i,r.fallY),o=e.s,n=e.y;this.feetY=n;var h=this.half(n+1.2),l=e.out+1.2*r.tumble,d=y(o,h,a.cols,a.faces,l);this.player.setPosition(d.x,n,d.z),this.playerYaw=d.yaw;var c=i.stepT>=0?Math.sin(i.stepT*Math.PI):0,u=e.stand>.5,f=u&&i.stepping&&i.fromRow===i.row;f&&(this.lastWalk=Math.sign(R(i.fromCol,i.col,a.ring,a.faces)));var v=d.yaw;if(u&&(v+=f?-this.lastWalk*Math.PI/2:Math.PI),this.player.setRotationFromEuler(0,180*v/Math.PI,0),u){this.body.setRotationFromEuler(0,0,0);for(var m,w=s(this.limbs);!(m=w()).done;){var b=m.value,p=f?b.sign*c*35:0;b.arm?b.node.setRotationFromEuler(180-p,0,8*-b.sign):b.node.setRotationFromEuler(p,0,0)}}else{var g=r.grip?12:4;this.body.setRotationFromEuler(-g+150*r.tumble,0,40*r.tumble);for(var M,Y=s(this.limbs);!(M=Y()).done;){var P=M.value,x=P.sign*c*30;P.arm?P.node.setRotationFromEuler(x+(r.grip?-6:6),0,-P.sign*(r.grip?10:22)):P.node.setRotationFromEuler(x-10,0,6*P.sign)}}this.followYaw+=C(this.followYaw,d.yaw)*(1-Math.exp(5*-t)),0!==r.orbitInput?(this.userYaw+=r.orbitInput,this.idleOrbitSec=0):(this.idleOrbitSec+=t,this.idleOrbitSec>1.5&&(this.userYaw=C(0,this.userYaw)*Math.exp(3*-t))),this.camYaw=this.followYaw+this.userYaw;var E=n+5+r.lift;this.camY+=(E-this.camY)*(1-Math.exp(6*-t)),this.camHalf+=(h-this.camHalf)*(1-Math.exp(3*-t));var F=2.6*this.camHalf+13,I=this.camY+1.2+r.shake;this.camera.node.setPosition(Math.sin(this.camYaw)*F,I,Math.cos(this.camYaw)*F),this.camera.node.lookAt(this.tmp.set(0,this.camY,0))},e.snap=function(t){var s=this.climberPos(t,null),i=s.s,r=s.y,a=y(i,this.half(r+1.2),t.wall.cols,t.wall.faces);this.followYaw=a.yaw,this.userYaw=0,this.camY=r+5,this.camHalf=this.half(r+1.2)},e.updateEnding=function(t){var i=M(this.rowsPerFloor,this.ladderRows);this.player.setPosition(0,i-.55*k+.05,1.15),this.player.setRotationFromEuler(0,180,0),this.feetY=i,this.playerYaw=0;var r=2*Math.sin(2*t);this.body.setRotationFromEuler(-14+r,0,0);for(var a,e=s(this.limbs);!(a=e()).done;){var o=a.value;o.arm?o.node.setRotationFromEuler(165,0,25*-o.sign):o.node.setRotationFromEuler(70+8*Math.sin(1.5*t+o.sign),0,6*o.sign)}var n=function(t){var s=Math.min(1,Math.max(0,t));return s*s*(3-2*s)},h=this.tmp2.set(0,i+.8,1.15),l=n(t/3.5),d=n((t-3.5)/(S-3.5)),c=1.25-.35*l+d*Math.PI*1.1,u=5.2-.6*l+15.4*d,f=1.5+.3*l+8*d;this.camera.node.setPosition(h.x+Math.sin(c)*u,h.y+f,h.z+Math.cos(c)*u),this.camera.node.lookAt(this.tmp.set(h.x,h.y-.2-3*d,h.z)),this.camYaw=c},e.headWorld=function(t){return this.player.getWorldPosition(t),t.y+=3,t},t.keyOrbit=function(t,s){return s*(100*Math.PI/180)*t},t.dragOrbit=function(t){return.008*-t},i(t,[{key:"totalHeight",get:function(){return M(this.rowsPerFloor,this.ladderRows)+P}},{key:"climberY",get:function(){return this.feetY}},{key:"levelBottomY",get:function(){return this.baseY}},{key:"climberInView",get:function(){return Math.abs(C(this.camYaw,this.playerYaw))<1.45}}]),t}());e._RF.pop()}}}));
 
 System.register("chunks:///_virtual/TowerShape.ts",["./rollupPluginModLoBabelHelpers.js","cc"],(function(r){var n,t;return{setters:[function(r){n=r.createForOfIteratorHelperLoose},function(r){t=r.cclegacy}],execute:function(){r({angleDelta:function(r,n){var t=(n-r)%(2*Math.PI);t>Math.PI&&(t-=2*Math.PI);t<=-Math.PI&&(t+=2*Math.PI);return t},crownTopY:I,faceYaw:v,floorY:l,halfAt:h,levelBaseY:function(r,n,t){if(null!==r.floorFrom)return i((r.floorFrom-1)*n);var o="spire-upper"===r.floors?1:0;return I(n)+o*t*a},profileHalf:function(r,n,t,a){var o;return null!=(o=y(n,t,a))?o:h(r,a)},ringDelta:function(r,n,t,a){var o=n-r;a>1&&(o>t/2&&(o-=t),o<-t/2&&(o+=t));return o},roofY:c,rowY:i,spireHalfAt:y,summitY:P,surfacePoint:function(r,n,t,a,o){void 0===o&&(o=0);var e=t*a,u=1===a?r:(r%e+e)%e,f=1===a?0:Math.min(a-1,Math.floor(u/t)),i=2*(u-f*t)/t-1,l=v(f,a),c=Math.sin(l),h=Math.cos(l),M=Math.cos(l),p=-Math.sin(l),m=n+o,I=l;if(a>1){var P=.2,y=Math.PI/a;I+=y*s((i-.8)/P)-y*s((-i-.8)/P)}return{x:c*m+M*i*n,z:h*m+p*i*n,yaw:I}},towerSections:function(r){var n=[],t=function(t,a,o,e){n.push({kind:t,floorFrom:a,floorTo:o,y0:"base"===t?0:l(a,r),y1:l(o+1,r),half0:e[0],half1:e[1]})};t("base",1,26,e);for(var a=0;a<8;a++){var o=27+8*a;t("segment",o,o+8-1,u)}return t("top",91,101,f),n}}),t._RF.push({},"642a9tKgmZL8q2pn2Q5qVLx","TowerShape",void 0);var a=r("ROW_H",.2),o=r("LIFT",1.3),e=[9.6,7.4],u=[5.2,6.8],f=[4.4,4.9];function i(r){return o+r*a}function l(r,n){return i((r-1)*n)}function c(r){return l(102,r)}function h(r,t){for(var a,o=r[0],e=n(r);!(a=e()).done;){var u=a.value;t>=u.y0&&(o=u)}var f=Math.min(1,Math.max(0,(t-o.y0)/(o.y1-o.y0)));return o.half0+(o.half1-o.half0)*f}function v(r,n){return 1===n?0:2*r*Math.PI/n}function s(r){var n=Math.min(1,Math.max(0,r));return n*n*(3-2*n)}var M=r("CROWN",[[2.4,3.7],[2,2.7],[1.6,1.8]]),p=r("SPIRE_HALF",[1,.45]),m=r("SPIRE_TIP",6);function I(r){return c(r)+M.reduce((function(r,n){return r+n[0]}),0)}function P(r,n,t){return void 0===t&&(t=2),I(r)+t*n*a}function y(r,t,a){var o=c(r);if(a<o)return null;for(var e,u=n(M);!(e=u()).done;){var f=e.value,i=f[0],l=f[1];if(a<o+i)return l;o+=i}var h=P(r,t);return a<=h?p[0]+(p[1]-p[0])*((a-o)/(h-o)):Math.max(.04,p[1]*(1-(a-h)/m))}t._RF.pop()}}}));
 

diff --git a/site/application.e1240.js b/site/application.e1240.js
@@ -14,7 +14,7 @@ System.register([], function (_export, _context) {
       _export("Application", Application = /*#__PURE__*/function () {
         function Application() {
           _classCallCheck(this, Application);
-          this.settingsPath = 'src/settings.1123b.json';
+          this.settingsPath = 'src/settings.cd320.json';
           this.showFPS = false;
         }
         _createClass(Application, [{

diff --git a/site/index.html b/site/index.html
@@ -61,7 +61,7 @@
 <script src="src/import-map.4a4e2.json" type="systemjs-importmap" charset="utf-8"> </script>
 
 <script>
-    System.import('./index.3347d.js').catch(function(err) { console.error(err); })
+    System.import('./index.332dc.js').catch(function(err) { console.error(err); })
 </script>
 
 </body>

diff --git a/site/index.332dc.js b/site/index.332dc.js
@@ -1,4 +1,4 @@
-System.register(["./application.d75d8.js"], function (_export, _context) {
+System.register(["./application.e1240.js"], function (_export, _context) {
   "use strict";
 
   var Application, canvas, $p, bcr, application;
